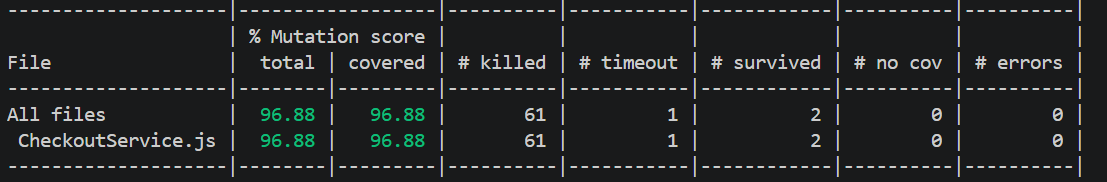
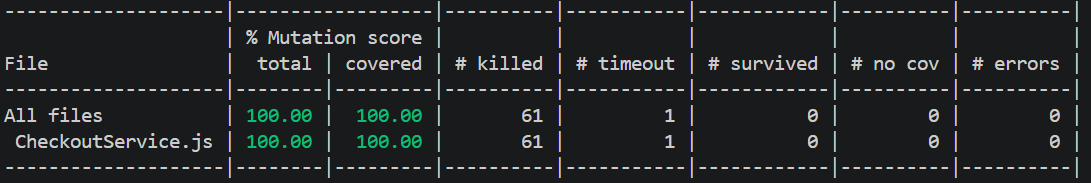
docs: alterando relatorio

diff --git a/tests/builders/PedidoBuilder.js b/tests/builders/PedidoBuilder.js
@@ -8,29 +8,24 @@ class PedidoBuilder {
     };
   }
 
-
   comEmail(email) {
     this.pedido.clienteEmail = email;
     return this;
   }
-
 
   comValor(valor) {
     this.pedido.valor = valor;
     return this;
   }
 
-
   comCartao(cartao) {
     this.pedido.cartao = cartao;
     return this;
   }
 
-
   build() {
     return { ...this.pedido };
   }
 }
-
 
 module.exports = { PedidoBuilder };

diff --git a/src/services/CheckoutService.js b/src/services/CheckoutService.js
@@ -31,8 +31,8 @@ class CheckoutService {
   isValid(pedido) {
     return (
       pedido?.clienteEmail?.includes('@') &&
-      pedido?.valor > 0 &&
-      pedido?.cartao
+      pedido.valor > 0 &&
+      pedido.cartao
     );
   }
 

diff --git a/docs/resultado-teste-mutacao/resultado-teste-mutacao.md b/docs/resultado-teste-mutacao/resultado-teste-mutacao.md
@@ -1,109 +1,7 @@
 # Resultado do Teste de Mutação
 
-Como resultados do teste de mutação da classe `CheckoutService`, 61 mutantes foram mortos e 2 mutantes sobreviveram. Ao final, o Mutation Score alcançado foi de 96.88%, como mostra a imagem a seguir. 
+Como resultados do teste de mutação da classe `CheckoutService`, 61 mutantes e todos foram mortos, apresentando um Mutation Score de 100%. 
 
 ![Teste de mutação](./image-teste-mutacao.png)
-
-
-## Mutantes Sobreviventes: Optional Chaining
-
-Os dois mutantes estão relacionados ao operador de optional chaining (`?.`).
-
-Esses mutantes ocorreram no método `isValid`, responsável por validar se um pedido possui:
-
-- e-mail de cliente válido;
-- valor maior que zero;
-- cartão informado.
-
-## Código Original
-
-```js
-isValid(pedido) {
-  return (
-    pedido?.clienteEmail?.includes('@') &&
-    pedido?.valor > 0 &&
-    pedido?.cartao
-  );
-}
-```
-
-## Mutante 1
-
-O primeiro mutante removeu o optional chaining do acesso ao atributo `valor`.
-
-```diff
-- pedido?.valor > 0 &&
-+ pedido.valor > 0 &&
-```
-
-## Mutante 2
-
-O segundo mutante removeu o optional chaining do acesso ao atributo `cartao`.
-
-```diff
-- pedido?.cartao
-+ pedido.cartao
-```
-
-Após uma análise realizada, pode-se afirmar que esses dois mutantes podem ser considerados **mutantes equivalentes**.
-
-Um mutante equivalente é um mutante que altera o código, mas não altera o comportamento observável do programa. Ou seja, mesmo que o código fique escrito de forma diferente, o resultado produzido continua sendo o mesmo para os cenários possíveis.
-
-## Por Que Esses Mutantes São Equivalentes?
-
-O operador `?.`, chamado de optional chaining, é usado para evitar erro quando se tenta acessar uma propriedade de um valor que pode ser `null` ou `undefined`.
-
-Por exemplo:
-
-```js
-pedido?.cartao
-```
-
-Esse código significa que o JavaScript só tentará acessar `cartao` se `pedido` existir. Caso `pedido` seja `null` ou `undefined`, o resultado será apenas `undefined`, sem lançar erro.
-
-No método `isValid`, porém, a primeira condição já verifica se `pedido` existe:
-
-```js
-pedido?.clienteEmail?.includes('@')
-```
-
-Se `pedido` for `null` ou `undefined`, essa primeira expressão retorna `undefined`, que é tratado como falso dentro da condição.
-
-Como as expressões estão ligadas pelo operador lógico `&&`, o JavaScript usa curto-circuito. Isso significa que, se a primeira condição for falsa, as próximas condições não são avaliadas.
-
-Portanto, se `pedido` não existir, o código para logo na primeira expressão e não chega a avaliar:
-
-```js
-pedido?.valor > 0
-```
-
-nem:
-
-```js
-pedido?.cartao
-```
-
-Por isso, remover o optional chaining dessas duas últimas expressões não muda o comportamento do método.
-
-Na prática, quando o código chega em:
-
-```js
-pedido.valor > 0
-```
-
-ou em:
-
-```js
-pedido.cartao
-```
-
-Já existe a garantia de que `pedido` não é `null` nem `undefined`, pois a primeira condição já foi avaliada com sucesso.
-
-
-## Conclusão
-
-Os dois mutantes sobreviveram aos testes porque os testes não conseguem distinguir o código original do código mutado.
-
-Nesse caso, a sobrevivência dos mutantes não representa necessariamente uma falha nos testes, pois os mutantes são equivalentes.
 
 
